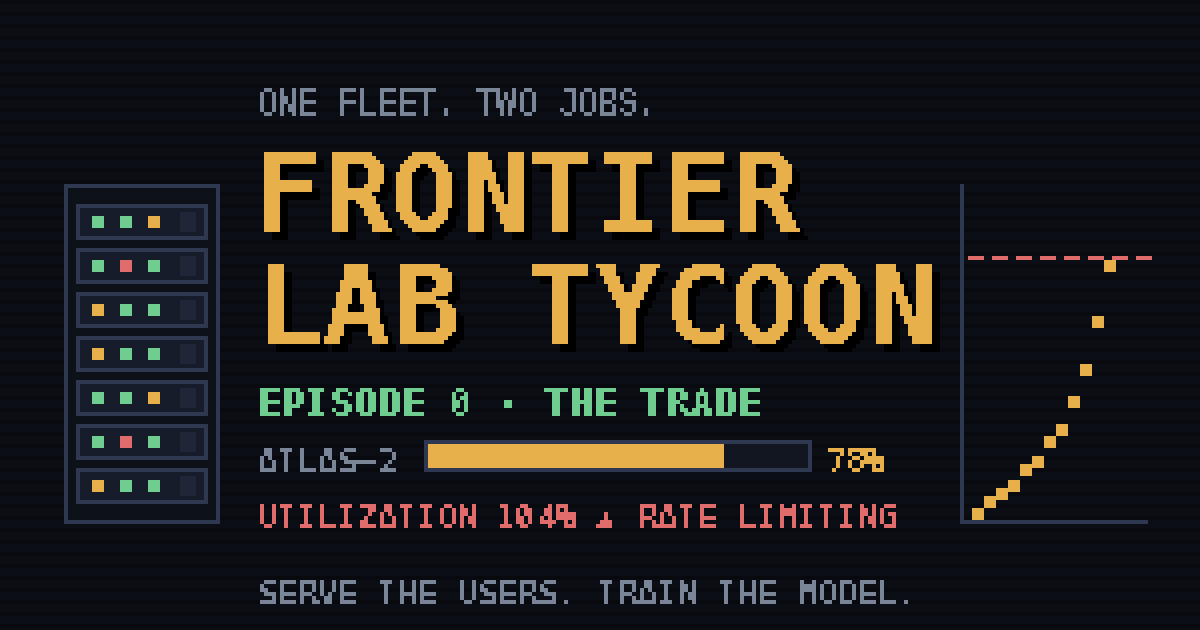
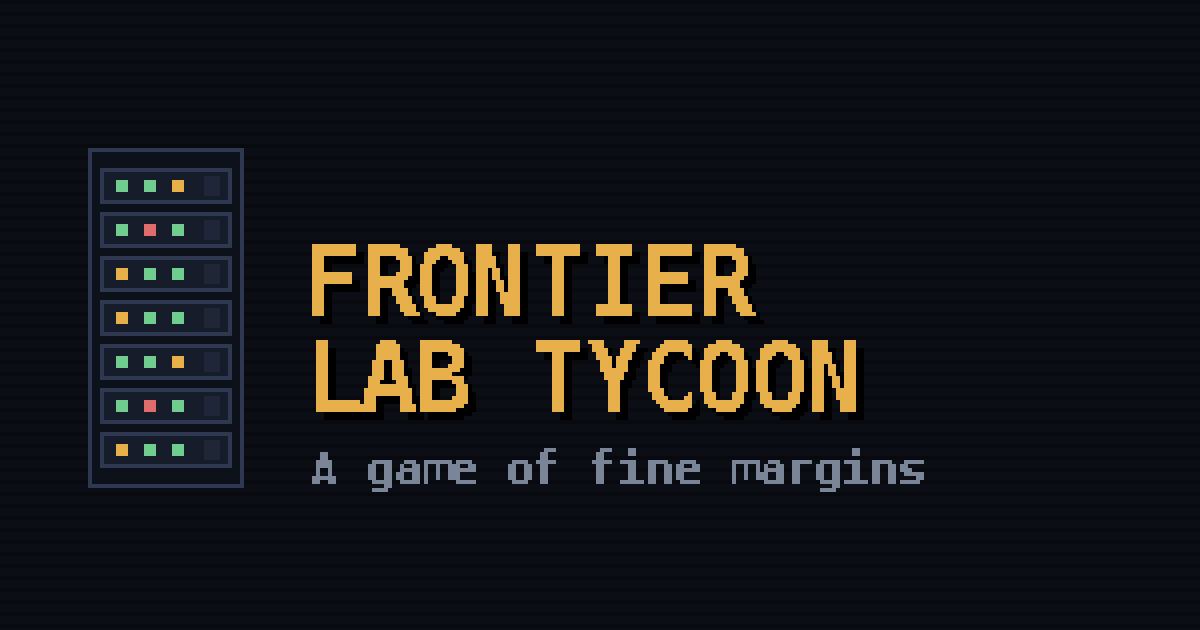
Color-code inference (blue) vs training (amber); minimal share card
The fleet-split bar is now a two-color balance readout — blue serving
segment vs amber training segment, white target marker — with matching
slider labels and thumb accents (blue/amber follow the existing capacity
and run-progress color language). Share card simplified to rack + title +
'A game of fine margins'.

diff --git a/index.html b/index.html
@@ -123,8 +123,12 @@
   .pip.on{background:var(--bad); border-color:var(--bad);}
   #obj-timeline{position:relative; margin-top:6px;}
   #tl-eta{position:absolute; top:-2px; bottom:-2px; width:2px; background:var(--amber);}
-  #al-splitbar{margin-top:6px;}
+  /* split bar: blue = inference, amber = training — matches capacity (blue) and run-progress (amber) colors */
+  #al-splitbar{margin-top:6px; background:var(--amber);}
+  #al-split-fill{background:var(--blue);}
   #al-split-target{position:absolute; top:-2px; bottom:-2px; width:2px; background:var(--txt);}
+  #al-inf{accent-color:var(--blue);}
+  #al-train{accent-color:var(--amber);}
 
   #modeoverlay{position:fixed; inset:0; background:rgba(5,7,12,.94); display:none; align-items:center; justify-content:center; z-index:60;}
   #modeoverlay .box{background:var(--panel); border:2px solid var(--amber); max-width:640px; padding:22px;}
@@ -168,16 +172,16 @@
         <h3>Compute Allocation</h3>
         <div class="body">
           <div class="sliderrow">
-            <span class="name" title="Serves product traffic. Capacity(T tok/wk) = H100e × 0.001.">INFERENCE</span>
+            <span class="name" style="color:var(--blue)" title="Serves product traffic. Capacity(T tok/wk) = H100e × 0.001.">INFERENCE</span>
             <input type="range" id="al-inf" min="0" max="100" value="60">
             <span class="out" id="al-inf-out"></span>
           </div>
           <div class="sliderrow">
-            <span class="name" id="al-train-name" title="Feeds the active training run. Progress/wk = H100e allocated.">TRAINING</span>
+            <span class="name" id="al-train-name" style="color:var(--amber)" title="Feeds the active training run. Progress/wk = H100e allocated.">TRAINING</span>
             <input type="range" id="al-train" min="0" max="100" value="40">
             <span class="out" id="al-train-out"></span>
           </div>
-          <div class="bar" id="al-splitbar" title="Fleet split — amber = inference (where the GPUs actually are), dark = training. The marker is your target; the fill migrates toward it ~8%/wk.">
+          <div class="bar" id="al-splitbar" title="Fleet split — blue = inference, amber = training (where the GPUs actually are). The white marker is your target; the boundary migrates toward it ~8%/wk.">
             <div class="fill" id="al-split-fill"></div><div id="al-split-target"></div>
           </div>
           <div class="dm" id="al-note" style="font-size:10px; margin-top:2px;"></div>
